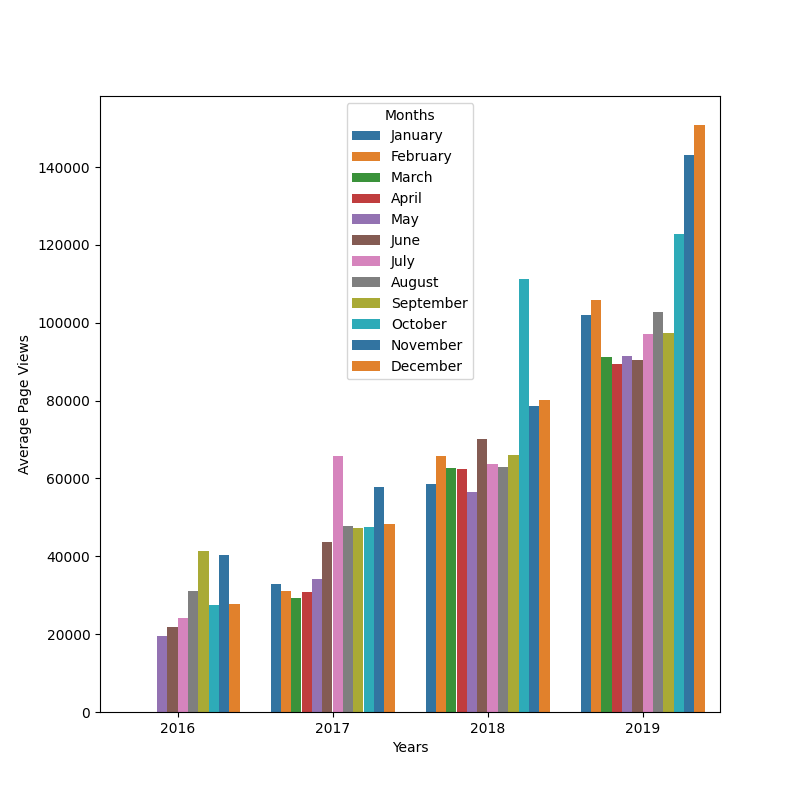
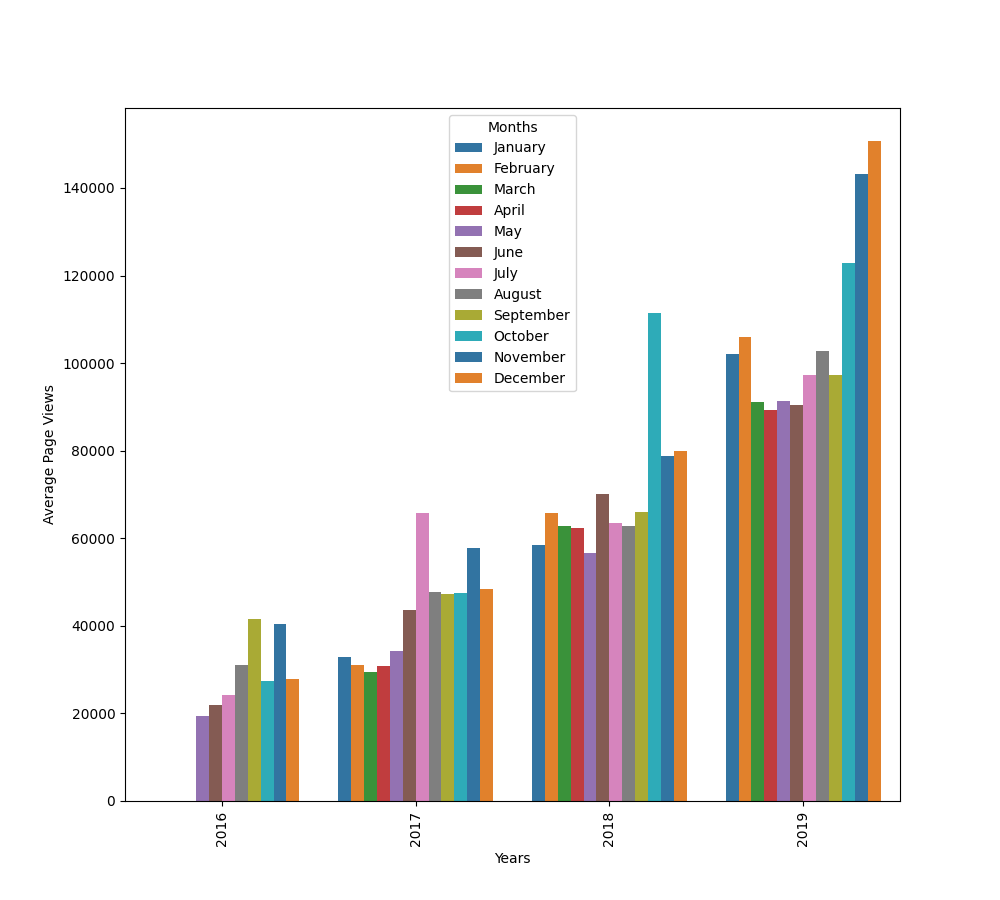
fix: barplot vertical x axis labels

diff --git a/time_series_visualizer.py b/time_series_visualizer.py
@@ -30,14 +30,14 @@ def draw_bar_plot():
     df_bar['month'] = df_bar.index.month_name()
 
     # Plot settings
-    plt.figure(figsize=(8,8))
-    sns.color_palette()
+    plt.figure(figsize=(10,9))
     months_order = ['January', 'February', 'March', 'April', 'May', 'June', 'July', 'August', 'September', 'October', 'November', 'December']
 
     # Draw bar plot
     ax = sns.barplot(x='year', y='value', hue='month', hue_order=months_order, data=df_bar, palette=sns.color_palette())
     ax.set(xlabel='Years', ylabel='Average Page Views', title='')
     ax.legend().set_title('Months')
+    ax.set_xticklabels(ax.get_xticklabels(), rotation=90)
     fig = ax.get_figure()
 
     # Save image and return fig (don't change this part)
